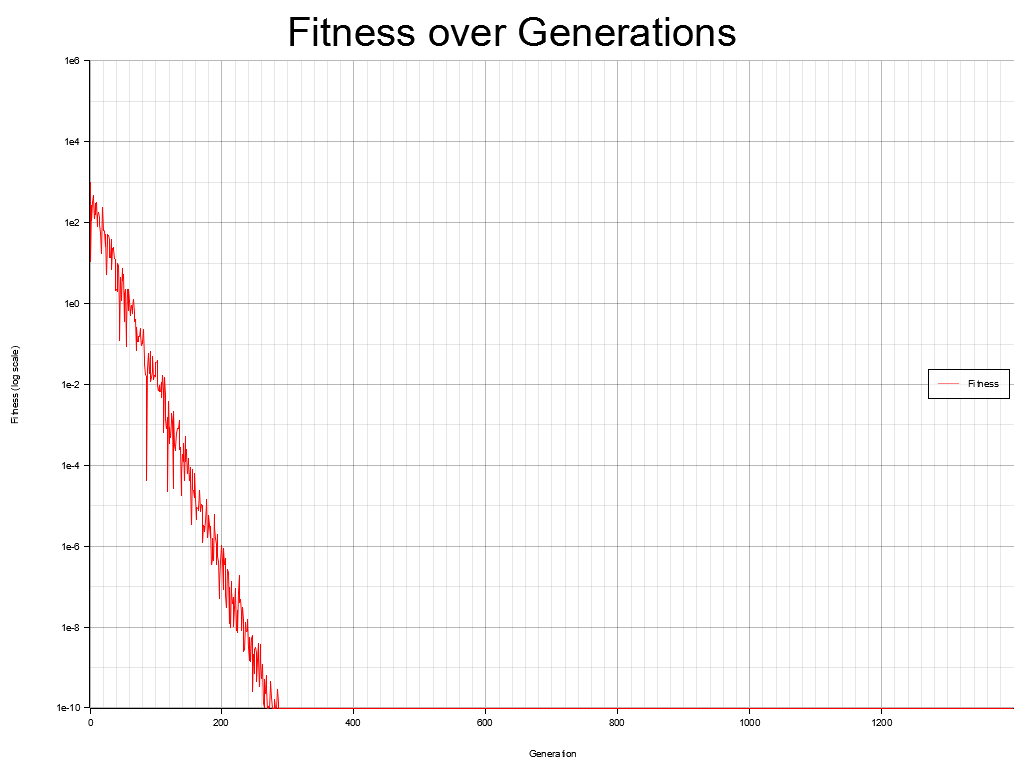
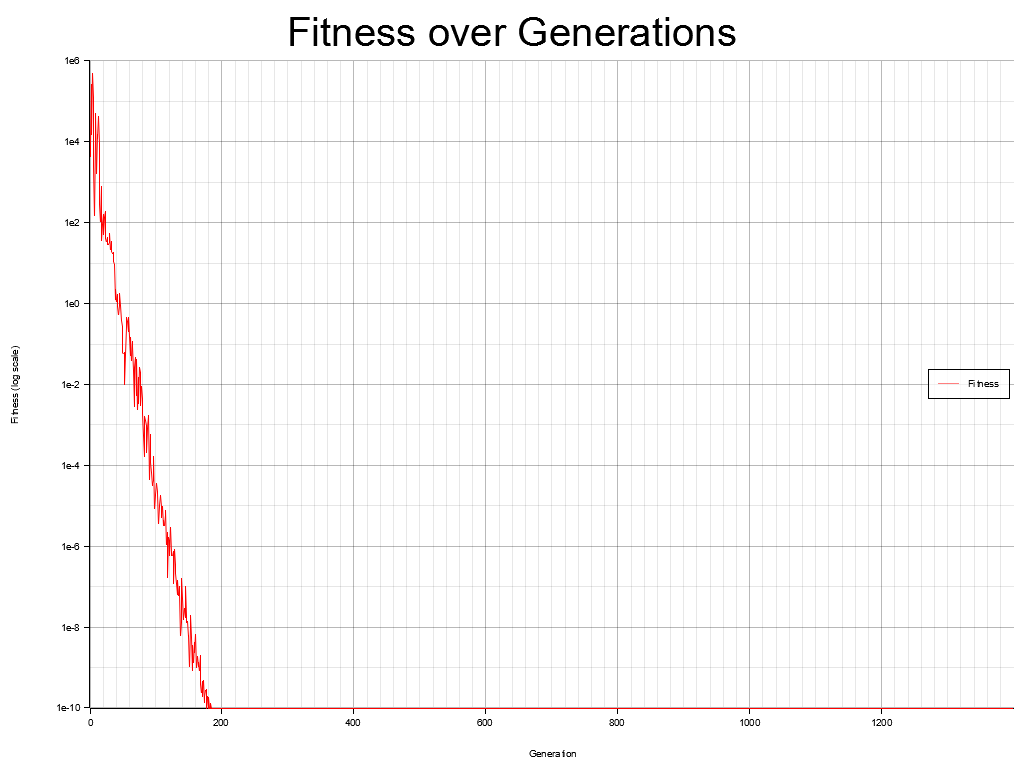
corrected DES, TODO: handle negative fitness

Changed region(s): [[0.0625, 0.125, 0.2188, 0.8438], [0.1875, 0.75, 0.2812, 0.9375]]

diff --git a/src/main.rs b/src/main.rs
@@ -4,109 +4,118 @@ extern crate plotters;
 use plotters::prelude::*;
 use plotters::style::{Color, RED};
 use rand::distributions::{Distribution, Uniform};
-use rand::Rng;
+use rand::prelude::*;
+use rand_distr::{Normal, Distribution as OtherDistribution};
 use std::f64;
+use rand_distr::num_traits::real::Real;
 
-const MU: usize = 50; // Number of best solutions to keep
-const H: usize = 5; // History size
-const CC: f64 = 0.1; // Learning rate for covariance matrix
-const CD: f64 = 0.1; // Learning rate for differential weights
-const EPSILON: f64 = 0.1; // Small constant
-
+static mut MU: usize = 50; // Number of the best solutions to keep
+static mut H: usize = 5; // History size
+static mut CC: f64 = 0.1; // Learning rate for covariance matrix
+static mut CD: f64 = 0.1; // Learning rate for differential weights
+static mut CE: f64 = 0.1;
+static mut EPSILON: f64 = 1e-6; // Small constant
 static mut DIMENSIONS: usize = 3; // Dimensionality of the problem
 static mut LAMBDA: usize = 7; // Population size (will be updated)
 static mut MAX_GENERATIONS: usize = 30000; // Max number of generations (will be updated)
 
 fn main() {
+    // Parameter initialization as in the Appendix
     unsafe {
-        DIMENSIONS = 30; // Set your desired dimensions
+        DIMENSIONS = 3; // Set your desired dimensions
         LAMBDA = 4 + (3.0 * (DIMENSIONS as f64).ln()).floor() as usize;
         // MAX_GENERATIONS = 10000 * DIMENSIONS;
         MAX_GENERATIONS = 1400;
+        MU = (LAMBDA as f64 / 2.0).floor() as usize;
+        H = 6 + (3.0 * (DIMENSIONS as f64).sqrt()).floor() as usize;
+        CC = 1.0 / (DIMENSIONS as f64).sqrt();
+        CD = MU as f64 / ((MU + 2) as f64);
+        CE = 2.0 / (DIMENSIONS * DIMENSIONS) as f64;
+
+        println!("LAMBDA (Population size): {}", unsafe { LAMBDA });
+        println!("MAX_GENERATIONS: {}", unsafe { MAX_GENERATIONS });
+        println!("MU (No best solutions kept): {}", unsafe { MU });
+        println!("H (History size): {}", unsafe { H });
+        println!("CC (LR for covariance matrix): {}", unsafe { CC });
+        println!("CD (LR for differential weights): {}", unsafe { CD });
+        println!("CE (idk xD): {}", unsafe { CE });
+
+        // Fitness function 1
+        let mut des1 = DES::new();
+        des1.run(
+            |x| x.iter().map(|&xi| xi * xi).sum(),
+            "sum_of_squares.png",
+        );
+        // Fitness function 2
+        let mut des2 = DES::new();
+        des2.run(
+            |x| x[0] * x[0] + 1e6 * x.iter().skip(1).map(|&xi| xi * xi).sum::<f64>(),
+            "cigar.png",
+        );
+        // Fitness function 3
+        let mut des3 = DES::new();
+        des3.run(
+            |x| 1e6 * x[0] * x[0] + x.iter().skip(1).map(|&xi| xi * xi).sum::<f64>(),
+            "discus.png",
+        );
+        // Fitness function 4
+        let mut des4 = DES::new();
+        des4.run(
+            |x| x.iter().enumerate().map(|(i, &xi)| 10_f64.powf(6.0 * (i as f64 - 1.0) / (x.len() as f64 - 1.0)) * xi * xi).sum::<f64>(),
+            "ellipsoid.png",
+        );
+        // Fitness function 5
+        let mut des5 = DES::new();
+        des5.run(
+            |x| x.iter().enumerate().map(|(i, &xi)| xi.powf(2.0 * (1.0 + 5.0 * (i as f64 - 1.0) / (x.len() as f64 - 1.0)))).sum::<f64>(),
+            "different_powers.png",
+        );
+        // Fitness function 6
+        let mut des6 = DES::new();
+        des6.run(
+            |x| x[0] + 100.0 * x[1..].iter().map(|&xi| xi * xi).sum::<f64>(),
+            "sharp_ridge.png",
+        );
+        // Fitness function 7
+        let mut des7 = DES::new();
+        des7.run(
+            |x| x[0] + 100.0 * (x[1..].iter().map(|&xi| xi * xi).sum::<f64>()).sqrt(),
+            "parabolic_ridge.png",
+        );
+        // Fitness function 8
+        let mut des8 = DES::new();
+        des8.run(
+            |x| (0..x.len() - 1).map(|i| 100.0 * (x[i] * x[i] - x[i + 1] * x[i + 1]) + (x[i] - 1.0).powi(2)).sum::<f64>(),
+            "Rosenbrock.png",
+        );
     }
-
-    println!("LAMBDA: {}", unsafe { LAMBDA });
-    println!("MAX_GENERATIONS: {}", unsafe { MAX_GENERATIONS });
-
-    // Fitness function 1
-    let mut des1 = DES::new();
-    des1.run(
-        |x| x.iter().map(|&xi| xi * xi).sum(),
-        "sum_of_squares.png"
-    );
-    // Fitness function 2
-    let mut des2 = DES::new();
-    des2.run(
-        |x| x[0] * x[0] + 1e6 * x.iter().skip(1).map(|&xi| xi * xi).sum::<f64>(),
-        "cigar.png"
-    );
-    // Fitness function 3
-    let mut des3 = DES::new();
-    des3.run(
-        |x| 1e6 * x[0] * x[0] + x.iter().skip(1).map(|&xi| xi * xi).sum::<f64>(),
-        "discus.png"
-    );
-    // Fitness function 4
-    let mut des4 = DES::new();
-    des4.run(
-        |x| x.iter().enumerate().map(|(i, &xi)| 10_f64.powf(6.0 * (i as f64 - 1.0) / (x.len() as f64 - 1.0)) * xi * xi).sum::<f64>(),
-        "ellipsoid.png",
-    );
-    // Fitness function 5
-    let mut des5 = DES::new();
-    des5.run(
-        |x| x.iter().enumerate().map(|(i, &xi)| xi.powf(2.0 * (1.0 + 5.0 * (i as f64 - 1.0) / (x.len() as f64 - 1.0)))).sum::<f64>(),
-        "different_powers.png",
-    );
-    // Fitness function 6
-    let mut des6 = DES::new();
-    des6.run(
-        |x| x[0] + 100.0 * x[1..].iter().map(|&xi| xi * xi).sum::<f64>(),
-        "sharp_ridge.png",
-    );
-    // Fitness function 7
-    let mut des7 = DES::new();
-    des7.run(
-        |x| x[0] + 100.0 * (x[1..].iter().map(|&xi| xi * xi).sum::<f64>()).sqrt(),
-        "parabolic_ridge.png",
-    );
-    // Fitness function 8
-    let mut des8 = DES::new();
-    des8.run(
-        |x| (0..x.len() - 1).map(|i| 100.0 * (x[i] * x[i] - x[i+1] * x[i+1]) + (x[i] - 1.0).powi(2)).sum::<f64>(),
-        "Rosenbrock.png",
-    );
 }
 
 struct DES {
-    population: Vec<Vec<f64>>,
-    centroid: Vec<f64>,
-    rng: rand::rngs::ThreadRng,
+    population_history: Vec<Vec<Vec<f64>>>, // dim: t x LAMBDA x DIMENSIONS // Initial population has values from [-5.0, 5.0]
+    delta_history: Vec<Vec<f64>>, // dim: t x DIMENSIONS // one value per LAMBDA population
+    p_history: Vec<Vec<f64>>, // dim: t x DIMENSIONS // one value per LAMBDA population
+    m: Vec<f64>, // Just the previous m // one value per LAMBDA population
+    rng: ThreadRng,
     uniform: Uniform<f64>,
+    normal: Normal<f64>,
     generation: usize,
 }
 
 impl DES {
-    fn new() -> Self {
-        let dimensions = unsafe { DIMENSIONS };
-        let lambda = unsafe { LAMBDA };
-        let mut rng = rand::thread_rng();
-        let uniform = Uniform::new(0.0, 1.0);
+    pub fn new() -> Self {
+        let rng = thread_rng();
+        let generation = 1;
 
-        let population: Vec<Vec<f64>> = (0..lambda)
-            .map(|_| (0..dimensions).map(|_| uniform.expect("REASON").sample(&mut rng)).collect())
-            .collect();
-
-        let centroid: Vec<f64> = (0..dimensions)
-            .map(|d| population.iter().map(|xi| xi[d]).sum::<f64>() / lambda as f64)
-            .collect();
-
-        Self {
-            population,
-            centroid,
+        DES {
+            population_history: Vec::new(),
+            delta_history: Vec::new(),
+            p_history: Vec::new(),
+            m: vec![0.0; unsafe { DIMENSIONS }],
             rng,
-            uniform: uniform.unwrap(),
-            generation: 1,
+            uniform: Uniform::new(0.0, 1.0).unwrap(),
+            normal: Normal::new(0.0, 1.0).unwrap(),
+            generation,
         }
     }
 
@@ -114,7 +123,7 @@ impl DES {
     where
         F: Fn(&Vec<f64>) -> f64,
     {
-        self.population
+        self.population_history.last().unwrap()
             .iter()
             .map(|individual| fitness_fn(individual))
             .collect()
@@ -124,72 +133,113 @@ impl DES {
         self.generation >= unsafe { MAX_GENERATIONS }
     }
 
-    fn run<F>(&mut self, fitness_fn: F, plot_file: &str)
+    unsafe fn initialize<F>(&mut self, fitness_fn: F)
     where
         F: Fn(&Vec<f64>) -> f64,
     {
+        let mut rng = thread_rng();
+        let mut initial_population: Vec<Vec<f64>> = (0..LAMBDA)
+            .map(|_| (0..DIMENSIONS).map(|_| rng.gen_range(-5.0..5.0)).collect())
+            .collect();
+
+        // Evaluate initial population and sort by fitness
+        let fitness_values: Vec<f64> = initial_population.iter().map(|ind| fitness_fn(ind)).collect();
+        let mut sorted_indices: Vec<usize> = (0..LAMBDA).collect();
+        sorted_indices.sort_by(|&a, &b| fitness_values[a].partial_cmp(&fitness_values[b]).unwrap());
+        initial_population = sorted_indices.into_iter().map(|i| initial_population[i].clone()).collect();
+
+        self.population_history.push(initial_population);
+
+        // Calculate initial m
+        for d in 0..DIMENSIONS {
+            self.m[d] = (0..LAMBDA)
+                .map(|i| self.population_history[0][i][d])
+                .sum::<f64>() / MU as f64;
+        }
+    }
+
+    unsafe fn run<F>(&mut self, fitness_fn: F, plot_file: &str)
+    where
+        F: Fn(&Vec<f64>) -> f64,
+    {
+        // Initialize: stage 1 - stage 4 in the article
+        self.initialize(&fitness_fn);
+
         let mut fitness_values = self.evaluate(&fitness_fn);
         let mut best_fitness_history = vec![];
 
         while !self.stop_condition() {
-            let best_fitness = fitness_values.iter().cloned().fold(f64::INFINITY, f64::min);
-            best_fitness_history.push(best_fitness);
-            println!("Generation {}: Best fitness = {}", self.generation, best_fitness);
+            fitness_values = self.evaluate(&fitness_fn);
+            let best_fitness = fitness_values.first().expect("Var fitness_values cannot be empty");
+            best_fitness_history.push(*best_fitness);
+            println!("Generation {}: Best fitness = {}", self.generation, *best_fitness);
 
-            let old_centroid = self.centroid.clone();
+            let t_idx = self.generation - 1; // Index from t
+            let old_m = self.m.clone();
 
-            self.centroid = (0..unsafe { DIMENSIONS })
-                .map(|d| self.population.iter().take(MU).map(|xi| xi[d]).sum::<f64>() / MU as f64)
-                .collect();
+            // TODO: take min(MU, LAMBDA) in case MU is bigger than population size
+            for d in 0..DIMENSIONS {
+                self.m[d] = (0..MU)
+                    .map(|i| self.population_history[t_idx % MAX_GENERATIONS][i][d])
+                    .sum::<f64>() / MU as f64;
+            }
 
-            let delta: Vec<f64> = self
-                .centroid
-                .iter()
-                .zip(&old_centroid)
-                .map(|(mt, mt_old)| mt - mt_old)
-                .collect();
+            let delta: Vec<f64> = self.m.iter().zip(&old_m).map(|(m_t, m_t_old)| m_t - m_t_old).collect();
+            self.delta_history.push(delta.clone());
 
-            let mut p: Vec<f64>;
+            let mut p = vec![0.0; DIMENSIONS];
             if self.generation == 1 {
                 p = delta.clone();
             } else {
-                let mut old_p = vec![0.0; unsafe { DIMENSIONS }];
-                p = (0..unsafe { DIMENSIONS })
-                    .map(|d| {
-                        (1.0 - CC) * old_p[d]
-                            + (CC * (2.0 - CC) * MU as f64).sqrt() * delta[d]
-                    })
-                    .collect();
+                for d in 0..DIMENSIONS {
+                    p[d] = (1.0 - CC) * self.p_history.last().unwrap()[d] + (CC * (2.0 - CC) * MU as f64).sqrt() * delta[d];
+                }
             }
+            self.p_history.push(p.clone());
 
+            // Loop: stage 13 - stage 21 in the article
             let sqrt_cd_half = (CD / 2.0).sqrt();
             let sqrt_cd = CD.sqrt();
-            let sqrt_cd_times_cc = (CC * CD).sqrt();
+            let sqrt_one_minus_cd = (1.0 - CD).sqrt();
 
-            for i in 0..unsafe { LAMBDA } {
-                let tau_indices = (0..H)
-                    .map(|_| self.rng.gen_range(0..unsafe { LAMBDA }))
-                    .collect::<Vec<_>>();
+            let mut new_population = vec![vec![0.0; DIMENSIONS]; LAMBDA];
+            for i in 0..LAMBDA {
+                let normal = Normal::new(0.0, 1.0).unwrap();
+                let normal_i = Normal::new(0.0, (i as f64).sqrt()).unwrap(); // For N(0,i)
 
-                let mut d_i = vec![0.0; unsafe { DIMENSIONS }];
-                for d in 0..unsafe { DIMENSIONS } {
+                // Because the last pushed X atp is from generation t-1 we start from 0 here
+                let tau_1 = self.rng.gen_range(0..H);
+                let tau_2 = self.rng.gen_range(0..H);
+                let tau_3 = self.rng.gen_range(0..H);
+                let j = self.rng.gen_range(0..MU);
+                let k = self.rng.gen_range(0..MU);
+
+                // Random history index or 0, whichever is greater
+                let history_idx_1 = t_idx.saturating_sub(tau_1);
+                let history_idx_2 = t_idx.saturating_sub(tau_2);
+                let history_idx_3 = t_idx.saturating_sub(tau_3);
+
+                let mut d_i = vec![0.0; DIMENSIONS];
+                for d in 0..DIMENSIONS {
                     let diff = sqrt_cd_half
-                        * (self.population[tau_indices[0] % unsafe { LAMBDA }][d]
-                        - self.population[tau_indices[1] % unsafe { LAMBDA }][d])
-                        + sqrt_cd * delta[tau_indices[2] % delta.len()]  // Ensure the index is within bounds
-                        * self.uniform.sample(&mut self.rng)
-                        + sqrt_cd_times_cc * p[tau_indices[2] % p.len()]  // Ensure the index is within bounds
-                        * self.uniform.sample(&mut self.rng)
-                        + EPSILON
-                        * (1.0 - CC).powi(self.generation as i32 / 2)
-                        * self.uniform.sample(&mut self.rng);
-                    d_i[d] = self.centroid[d] + diff;
+                        * (self.population_history[history_idx_1][j][d]
+                        - self.population_history[history_idx_1][k][d])
+                        + sqrt_cd * self.delta_history[history_idx_2][d] * normal.sample(&mut thread_rng())
+                        + sqrt_one_minus_cd * self.p_history[history_idx_3][d] * normal.sample(&mut thread_rng())
+                        + EPSILON * (1.0 - CE).powi(self.generation as i32 / 2) * normal_i.sample(&mut thread_rng());
+                    d_i[d] = self.m[d] + diff;
                 }
 
-                self.population[i] = d_i;
+                new_population[i] = d_i;
             }
 
-            fitness_values = self.evaluate(&fitness_fn);
+            // Evaluate new population and sort by fitness
+            fitness_values = new_population.iter().map(|ind| fitness_fn(ind)).collect();
+            let mut sorted_indices: Vec<usize> = (0..LAMBDA).collect();
+            sorted_indices.sort_by(|&a, &b| fitness_values[a].partial_cmp(&fitness_values[b]).unwrap());
+            new_population = sorted_indices.into_iter().map(|i| new_population[i].clone()).collect();
+
+            self.population_history.push(new_population);
             self.generation += 1;
         }
 
@@ -199,7 +249,7 @@ impl DES {
 
     fn plot_fitness(&self, fitness_values: Vec<f64>, plot_file: &str) {
         // Determine the maximum fitness value for setting the y-axis range
-        let max_fitness = *fitness_values.iter().max_by(|a, b| a.partial_cmp(b).unwrap()).unwrap();
+        *fitness_values.iter().max_by(|a, b| a.partial_cmp(b).unwrap()).unwrap();
 
         // Initialize the plot
         let root_area = BitMapBackend::new(plot_file, (1024, 768)).into_drawing_area();
